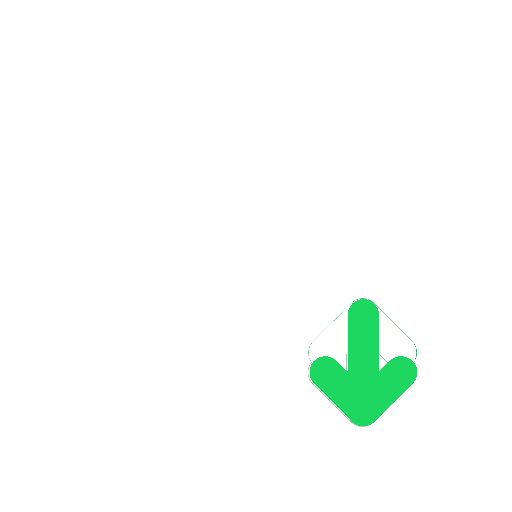
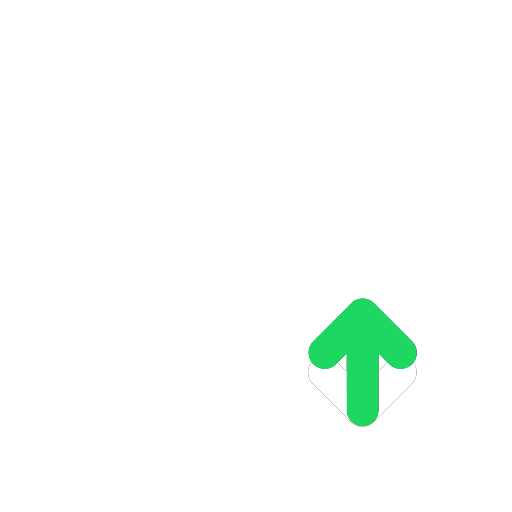
feat: sort song

Changed region(s): [[0.7188, 0.5938, 0.8125, 0.8125], [0.5938, 0.5938, 0.6875, 0.8125]]

diff --git a/src/view/js/search.js b/src/view/js/search.js
@@ -37,9 +37,11 @@ const __pagination = (page, total) => {
   return arr;
 };
 
-function loadSong(page = 1) {
+async function loadSong(page = 1) {
   const query = location.search.split("query=")[1];
   const genre = document.querySelector('input[name="genre"]:checked').value;
+  const judul = document.getElementById("sort_judul").value;
+  const tahun = document.getElementById("sort_tahun").value;
 
   let xhr = new XMLHttpRequest();
   xhr.onreadystatechange = () => {
@@ -86,8 +88,6 @@ function loadSong(page = 1) {
         pagination += `<li>←</li>`;
       }
 
-      console.log(pages);
-
       for (let i = 0; i < pages.length; i++) {
         if (pages[i] === "") {
         } else if (pages[i] === page) {
@@ -111,7 +111,56 @@ function loadSong(page = 1) {
 
   xhr.open("POST", "./view/js/ajax/search.php", true);
   xhr.setRequestHeader("Content-type", "application/x-www-form-urlencoded");
-  xhr.send("query=" + query + "&genre=" + genre + "&page=" + page);
+  xhr.send(
+    "query=" +
+      query +
+      "&genre=" +
+      genre +
+      "&page=" +
+      page +
+      "&judul=" +
+      judul +
+      "&tahun=" +
+      tahun
+  );
 }
+
+const updateSortJudul = async () => {
+  try {
+    await loadSong();
+
+    const judul = document.getElementById("sort_judul").value;
+
+    if (judul === "ASC") {
+      document.getElementById("sort_judul_img").src =
+        "./view/assets/img/judul_desc.png";
+      document.getElementById("sort_judul").value = "DESC";
+    } else {
+      document.getElementById("sort_judul_img").src =
+        "./view/assets/img/judul_asc.png";
+      document.getElementById("sort_judul").value = "ASC";
+    }
+  } catch (e) {}
+};
+
+const updateSortTahun = async () => {
+  loadSong().then(() => {
+    const tahun = document.getElementById("sort_tahun").value;
+
+    if (tahun === "") {
+      document.getElementById("sort_tahun_img").src =
+        "./view/assets/img/tahun_asc.png";
+      document.getElementById("sort_tahun").value = "ASC";
+    } else if (tahun === "ASC") {
+      document.getElementById("sort_tahun_img").src =
+        "./view/assets/img/tahun_desc.png";
+      document.getElementById("sort_tahun").value = "DESC";
+    } else if (tahun === "DESC") {
+      document.getElementById("sort_tahun_img").src =
+        "./view/assets/img/tahun.png";
+      document.getElementById("sort_tahun").value = "";
+    }
+  });
+};
 
 document.onload = loadSong();

diff --git a/src/view/html/search.html b/src/view/html/search.html
@@ -17,8 +17,12 @@
         Showing results <b>{start}-{stop}</b> of <b>{total}</b>
       </span>
       <div class="songs-pagination-sort">
-        <button><img src="./view/assets/img/judul_desc.png" /></button>
-        <button><img src="./view/assets/img/tahun_asc.png" /></button>
+        <button id="sort_judul" value="ASC" onclick="updateSortJudul()">
+          <img id="sort_judul_img" src="./view/assets/img/judul_asc.png" />
+        </button>
+        <button id="sort_tahun" value="" onclick="updateSortTahun()">
+          <img id="sort_tahun_img" src="./view/assets/img/tahun.png" />
+        </button>
       </div>
     </div>
     <ol class="songs-list" id="songs-list">

diff --git a/src/app/model/Song.php b/src/app/model/Song.php
@@ -49,9 +49,11 @@
             return $result;
         }
 
-        public function getSongByJudulPenyanyiTahun($user_query, $page, $genre) {
+        public function getSongByJudulPenyanyiTahun($user_query, $page, $genre, $judul, $tahun) {
             $result;
             try {
+                $user_query = filter_var($user_query, FILTER_SANITIZE_URL);
+
                 $query = "SELECT COUNT(song_id) FROM song WHERE ";
                 if ($genre != '') {
                     $query = $query . "LOWER(genre) = :genre AND ";
@@ -75,14 +77,17 @@
                     $query = $query . "LOWER(genre) = :genre AND ";
                     $this->db->bind(':genre', $genre);
                 }
-                $query =  $query . 
+                $query = $query . 
                 "(LOWER(judul) LIKE CONCAT('%', LOWER(:user_query), '%')
                 OR
                 LOWER(penyanyi) LIKE CONCAT('%', LOWER(:user_query), '%')
                 OR
                 EXTRACT(YEAR FROM tanggal_terbit) = :user_query_number)
-                ORDER BY judul ASC 
-                OFFSET :page LIMIT 10";
+                ORDER BY judul " . $judul . " ";
+                if ($tahun != '') {
+                    $query = $query . ", tanggal_terbit " . $tahun . " ";
+                }
+                $query = $query . "OFFSET :page LIMIT 10";
                 $this->db->query($query);
                 $this->db->bind(':user_query', $user_query);
                 $this->db->bind(':user_query_number', (int) preg_replace('/\D/', '', $user_query));
@@ -92,7 +97,7 @@
                 }
                 $result['data'] = $this->db->multi_result();
             } catch ( error $e ) {
-                echo 'ERROR!';
+                echo $e;
                 $result = NULL;
             }
             return $result;

diff --git a/src/view/js/ajax/search.php b/src/view/js/ajax/search.php
@@ -1,19 +1,20 @@
 <?php
     if ($_SERVER["REQUEST_METHOD"] == "POST") {
-        if(isset($_POST["query"]) && isset($_POST["genre"]) && isset($_POST["page"])) {
+        if(isset($_POST["query"]) && isset($_POST["genre"]) && isset($_POST["page"]) && isset($_POST["judul"]) && isset($_POST["tahun"]) ) {
             $query = $_POST["query"];
             $genre = $_POST["genre"];
             $page = $_POST["page"];
-        }
-    
+            $judul = $_POST["judul"];
+            $tahun = $_POST["tahun"];
+        
         require_once $_SERVER['DOCUMENT_ROOT'].'/app/model/Song.php';
 
         $db = new Song();
 
-        $song_results = $db->getSongByJudulPenyanyiTahun($query, $page, $genre);
+        $song_results = $db->getSongByJudulPenyanyiTahun($query, $page, $genre, $judul, $tahun);
 
-        header('Content-Type: application/json; charset=utf-8');
+        header('Content-Type: application/json');
         echo json_encode($song_results);
+        }
     }
-
 ?>

diff --git a/src/app/controller/search.php b/src/app/controller/search.php
@@ -22,9 +22,5 @@
                                   'genre_img_path' => $genre_result['image_path']];
         }
     }
-
-    $user_query = $_GET['query'];
-    $user_query = filter_var($user_query, FILTER_SANITIZE_URL);
-
-    $song_results = $db->getSongByJudulPenyanyiTahun($user_query, 1, "");
+    
 ?>
